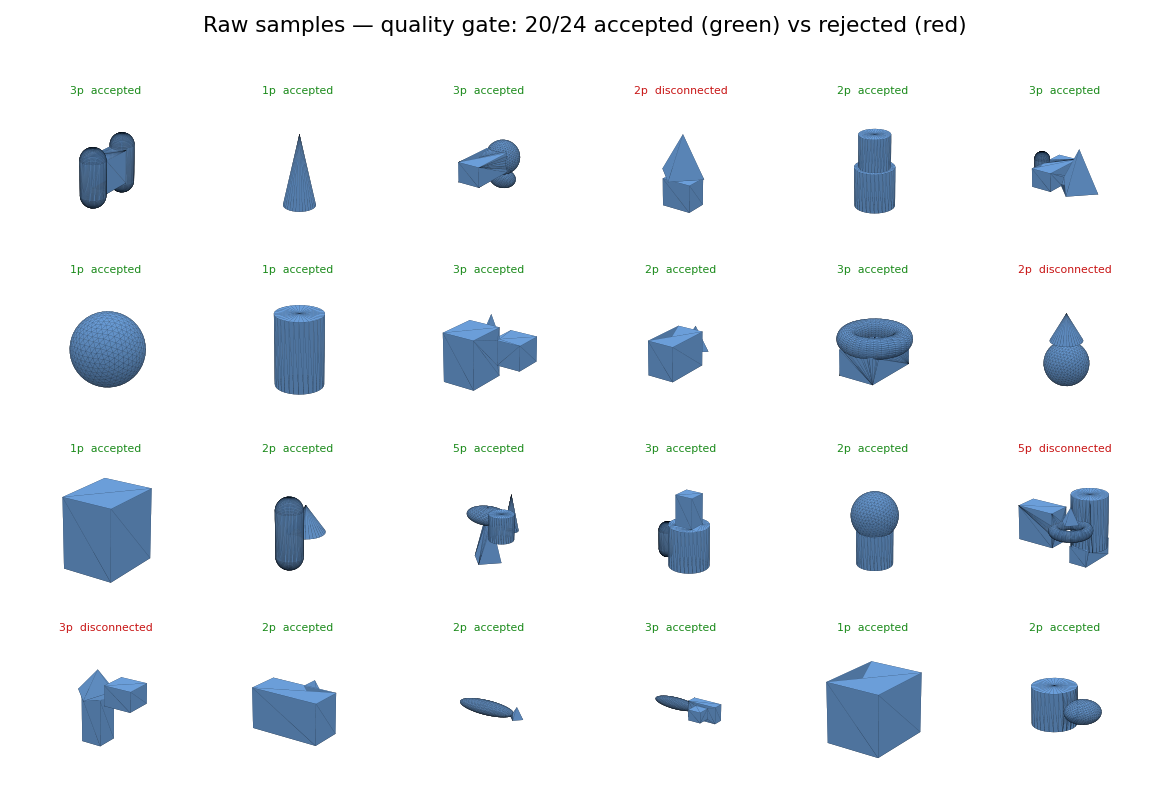
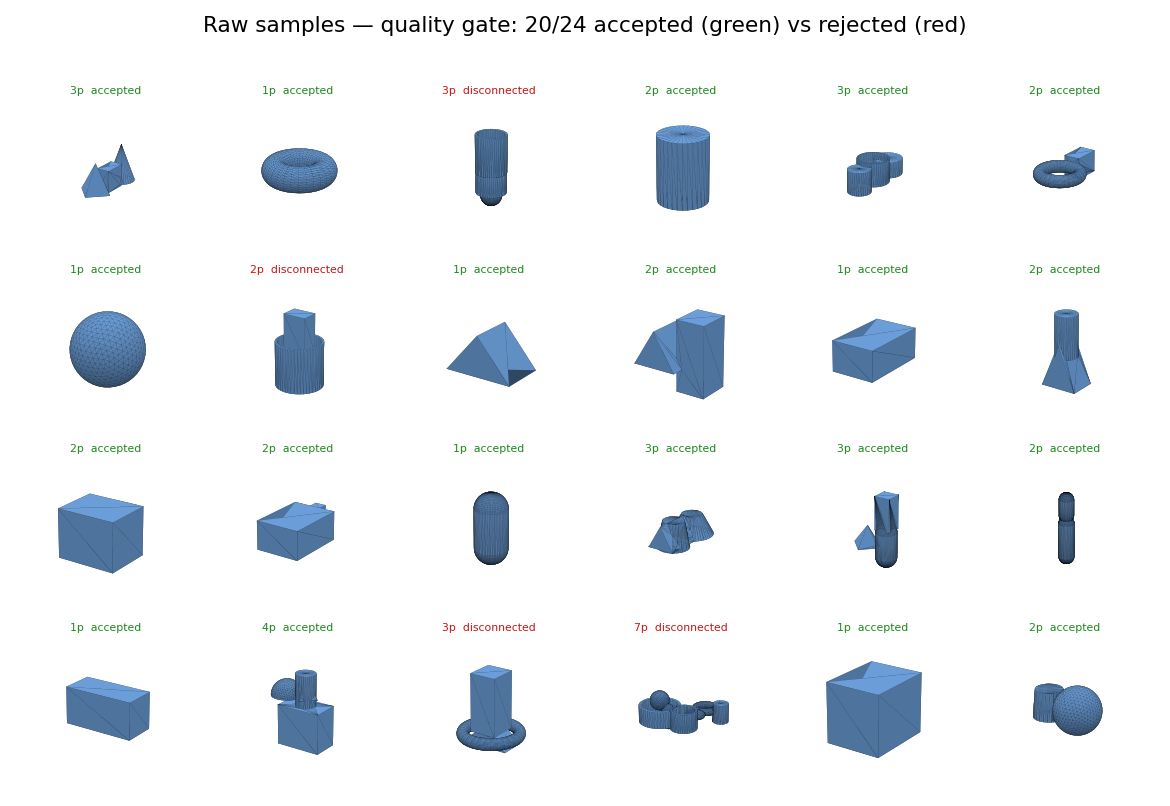
feat(scoring): part-aware low-graspability gate — stop "free" ungraspable cones
Graspability was only ~18% of the weighted total, so a lone cone still scored 0.67
(> 0.40 accept) and a cone glued to a graspable body scored graspability 1.0 (the
body's antipodal pair masks the cone) — the CEM happily sprinkled ungraspable
cones/pyramids that the assembly bonus rewards.

Fix: multiply the total by a part-aware graspability gate
  total *= clip(graspability_whole * part_graspability, low_grasp_floor, 1)
where part_graspability is the VOLUME-weighted per-type prior (cone/pyramid ~0.2,
everything else 1.0). A lone cone is gated below threshold (0.67 -> 0.17); a
composite is penalized by its pointy-volume fraction (small tip barely matters,
big cone drops a lot); fully-graspable objects (box, mug) are unchanged (gate=1).

Opt-in: ScoringConfig.low_grasp_gate defaults False (direct scoring + v1
paper_repro untouched, all prior tests pass); GeneratorConfig.low_grasp_gate
defaults True; paper_repro_generator sets it False. Measured: trained-CEM
cone+pyramid usage fell ~4% -> ~1% of parts, optimized mix shifted to all-graspable
types. 116 tests pass; sample galleries + PRIMITIVES.md updated.

diff --git a/src/scoring.py b/src/scoring.py
@@ -15,7 +15,19 @@ import trimesh
 from scipy.spatial import ConvexHull
 from scipy.spatial.distance import cdist
 
-from primitives import CompositeObject
+from primitives import CompositeObject, PrimitiveType
+
+
+# Per-type graspability prior for the part-aware gate. Cones and pyramids taper
+# to an apex and have NO antipodal (parallel-jaw) pair on their sloped surface —
+# the whole-object proxy confirms graspability 0.0 for them in isolation. Every
+# other type has a graspable pair (a wedge across its flat triangular faces, a
+# cylinder/sphere/shell across its body). Used (volume-weighted) so an
+# ungraspable part is not masked by a graspable one inside a composite.
+_TYPE_GRASPABILITY = {
+    PrimitiveType.CONE: 0.2,
+    PrimitiveType.PYRAMID: 0.2,
+}
 
 
 @dataclass
@@ -50,6 +62,17 @@ class ScoringConfig:
     # Set ``assembly_weight = 0.0`` to recover the v1 (paper) scoring exactly.
     target_primitives: int = 3
     assembly_weight: float = 1.0
+
+    # Low-graspability GATE (v2.4). When True, multiply the total by the
+    # graspable-material fraction (whole-object graspability x volume-weighted
+    # per-type graspability), floored at ``low_grasp_floor``. This makes
+    # graspability a hard requirement instead of an 18%-weighted average, so the
+    # CEM stops sprinkling ungraspable cones/pyramids that the whole-object proxy
+    # would otherwise mask inside a graspable composite ("free" pointy parts).
+    # Default OFF so direct ScoringConfig() / v1 paper_repro scoring is unchanged;
+    # the v2 generator turns it on.
+    low_grasp_gate: bool = False
+    low_grasp_floor: float = 0.25
 
 
 @dataclass
@@ -147,7 +170,34 @@ class ObjectScorer:
             weights['complexity'] * result.complexity_score
         ) / total_weight
 
+        # Low-graspability gate (v2.4, opt-in): a multiplicative penalty by the
+        # graspable-material fraction so an ungraspable cone/pyramid is no longer
+        # "free" inside a graspable composite. Fully-graspable objects (gate=1)
+        # are unchanged, so v1/box scoring is preserved.
+        if self.config.low_grasp_gate:
+            g_eff = result.graspability_score * self._part_graspability(obj)
+            gate = float(np.clip(g_eff, self.config.low_grasp_floor, 1.0))
+            result.total_score *= gate
+
         return result
+
+    def _part_graspability(self, obj: CompositeObject) -> float:
+        """Volume-weighted graspability over the object's primitives (per-type
+        prior). 1.0 if every part is graspable; lower as ungraspable (cone/
+        pyramid) parts take up more volume — so a small decorative spike barely
+        matters but a big cone does."""
+        prims = getattr(obj, 'primitives', None)
+        if not prims:
+            return 1.0
+        num = den = 0.0
+        for p in prims:
+            try:
+                v = max(float(p.volume()), 1e-9)
+            except Exception:
+                v = 1e-9
+            num += v * _TYPE_GRASPABILITY.get(getattr(p, 'ptype', None), 1.0)
+            den += v
+        return float(num / den) if den > 0 else 1.0
     
     def _score_size(self, obj: CompositeObject) -> Tuple[float, np.ndarray]:
         """

diff --git a/src/generator.py b/src/generator.py
@@ -45,7 +45,11 @@ class GeneratorConfig:
     # reproduces v1 scoring. See DISCREPANCIES.md item 8.
     assembly_weight: float = 1.0
     target_primitives: int = 3
-    
+    # Low-graspability gate (v2.4): penalize the total by the graspable-material
+    # fraction so the CEM stops favoring ungraspable cone/pyramid parts. On by
+    # default for v2; paper_repro turns it off to preserve v1 scoring.
+    low_grasp_gate: bool = True
+
     # Export settings
     density: float = 1000.0
     mesh_format: str = "obj"
@@ -96,7 +100,8 @@ class RoboticObjectGenerator:
             gripper_width_max=self.config.gripper_width_max,
             density=self.config.density,
             assembly_weight=self.config.assembly_weight,
-            target_primitives=self.config.target_primitives
+            target_primitives=self.config.target_primitives,
+            low_grasp_gate=self.config.low_grasp_gate,
         )
         self.scorer = ObjectScorer(self.scoring_config)
         
@@ -372,6 +377,7 @@ def paper_repro_generator(seed: int = 42) -> 'RoboticObjectGenerator':
         require_connected=False,
         rerank_by_grasp=False,
         assembly_weight=0.0,       # v1 scoring had no assembly reward
+        low_grasp_gate=False,      # v1 scoring had no graspability gate
         seed=seed,
     )
     gen = RoboticObjectGenerator(config)

diff --git a/tests/test_v2.py b/tests/test_v2.py
@@ -137,6 +137,20 @@ def test_assembly_weight_zero_recovers_v1():
     assert v1 == pytest.approx(1.0, abs=1e-6)
 
 
+def test_low_grasp_gate_penalizes_ungraspable_not_graspable():
+    box = P.create_simple_box(np.array([0.05, 0.05, 0.06]))
+    cone = P.CompositeObject(primitives=[
+        Cone(radius=0.03, height=0.07,
+             transform=Transform(translation=np.array([0.0, 0.0, 0.0175])))])
+    off = ObjectScorer(ScoringConfig(low_grasp_gate=False))
+    on = ObjectScorer(ScoringConfig(low_grasp_gate=True))
+    # A graspable box is unchanged by the gate; a lone (ungraspable) cone is
+    # penalized below the acceptance threshold.
+    assert on.score(box).total_score == pytest.approx(off.score(box).total_score)
+    assert off.score(cone).total_score >= 0.4
+    assert on.score(cone).total_score < 0.4
+
+
 # --- paper-repro preset -----------------------------------------------------
 
 def test_paper_repro_restricts_space():

diff --git a/docs/PRIMITIVES.md b/docs/PRIMITIVES.md
@@ -172,10 +172,20 @@ Three things conspire:
 
 So cone/pyramid/wedge-bearing composites readily become elites, and the learned
 `primitive_type_probs` never suppresses those types. This is a **scoring** issue,
-separate from the missing-primitives issue above — possible fixes (future work):
-raise the graspability weight, penalize *low* graspability multiplicatively (a
-gate, like the grasp planner's other gates) rather than averaging it in, or score
-graspability per-part so an ungraspable part is not masked by a graspable one.
+separate from the missing-primitives issue above.
+
+**✅ Fixed (v2.4) — the low-graspability gate.** The total score is now multiplied
+by a **part-aware graspability gate**: `total ×= clip(g_whole · g_parts, 0.25, 1)`,
+where `g_parts` is the **volume-weighted** per-type graspability (cone/pyramid ≈ 0.2,
+everything else 1.0). So an ungraspable part is no longer "free": a *lone* cone is
+gated below the accept threshold (0.67 → 0.17), and a composite is penalized in
+proportion to how much of its **volume** is pointy (a small decorative tip barely
+matters; a big cone drops the score a lot). Fully-graspable objects (a box, a mug)
+are unchanged (gate = 1.0), so v1 / `paper_repro` scoring is preserved — the gate is
+opt-in (off in `ScoringConfig` by default, on in the v2 generator). **Measured
+effect:** trained-CEM cone+pyramid usage fell from ~4% → ~1% of parts, and the
+optimized type mix shifted to all-graspable shapes (box, hemisphere, frustum,
+sphere, handle).
 
 ---
 
